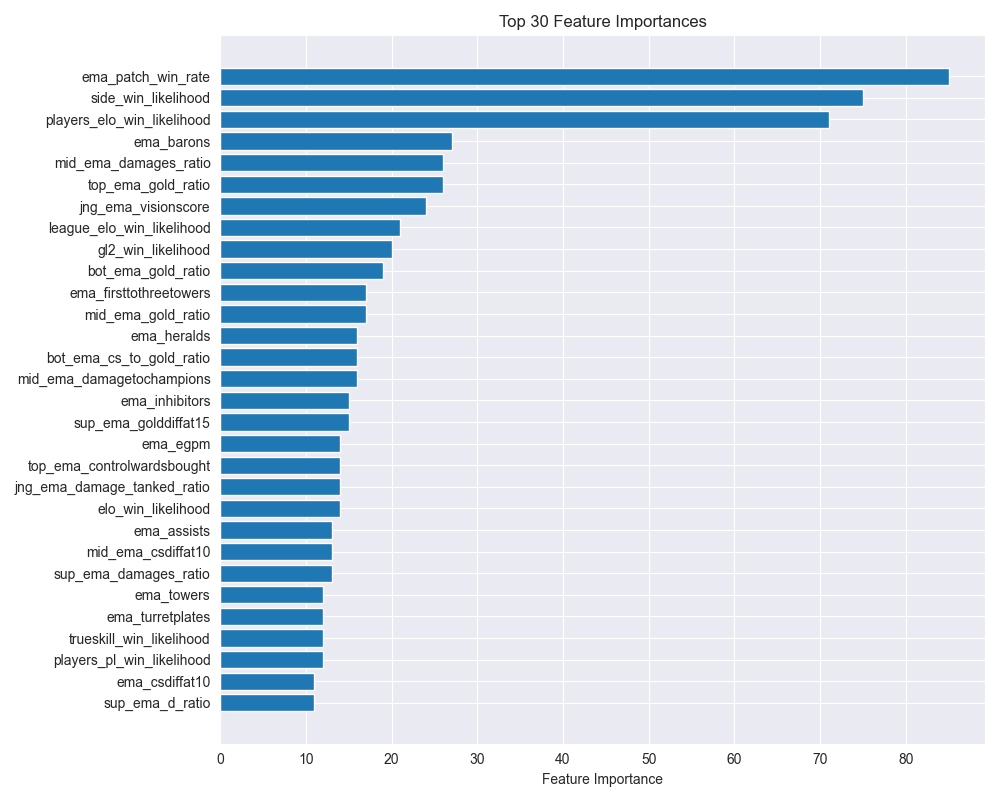
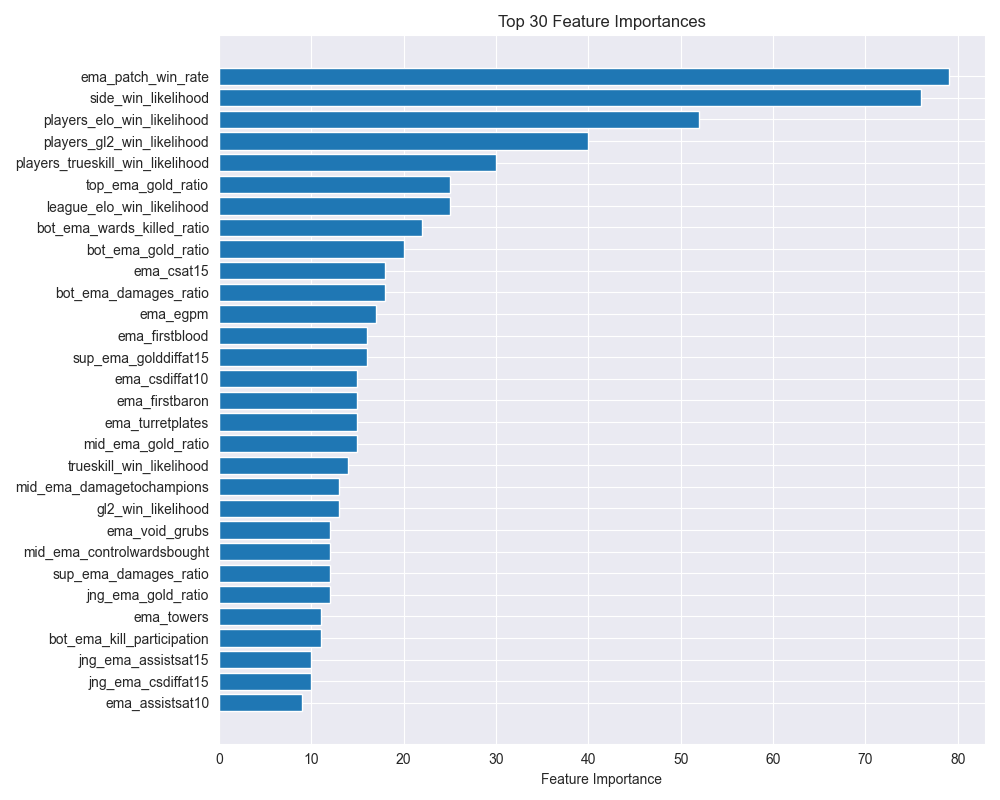
Fixed second model

diff --git a/src/prediction_models/lightgbm_model.py b/src/prediction_models/lightgbm_model.py
@@ -16,7 +16,7 @@ from sklearn.metrics import log_loss, mean_absolute_error
 
 from prediction_models.gbdt_model import GradientBoostingModel
 from utils.logger import logger, models_logger
-from utils.paths import OUTCOME_PREDICTION_BEST_HYPERPARAMETERS
+from utils.paths import GAMELENGTH_PREDICTION_BEST_HYPERPARAMETERS, OUTCOME_PREDICTION_BEST_HYPERPARAMETERS
 from utils.utils import load_model
 
 # Constants
@@ -28,15 +28,13 @@ TEST_SIZE = 0.2
 class LightGBMModel(GradientBoostingModel):
     """A class to train and evaluate a LightGBM model."""
 
-    problem_type: str
-
     def train_model(self, target_col: str) -> Tuple[lgb.LGBMModel, pd.DataFrame, pd.Series, pd.Series, pd.Series]:
         """Train the LightGBM model using the training data."""
         X, y, categorical_cols = self._prepare_features_and_target(target_col)
         X_train, X_val, X_test, y_train, y_val, y_test, eval_gameids, eval_sides = self._split_data(X, y)
         X_train, X_val, X_test = self._preprocess_features(X_train, X_val, X_test)
         X_train, X_val, X_test = self._select_and_store_features(X_train, X_val, X_test, y_val, categorical_cols)
-        best_params = self._get_best_hyperparameters(X_train, y_train, X_val, y_val)
+        best_params = self._get_best_hyperparameters(X_train, y_train, X_val, y_val, target_col)
         model = self._fit_model(X_train, y_train, X_val, y_val, best_params)
         return model, X_test, y_test, eval_gameids, eval_sides
 
@@ -102,11 +100,15 @@ class LightGBMModel(GradientBoostingModel):
         return X_train, X_val, X_test
 
     def _get_best_hyperparameters(
-        self, X_train: pd.DataFrame, y_train: pd.Series, X_val: pd.DataFrame, y_val: pd.Series
+        self, X_train: pd.DataFrame, y_train: pd.Series, X_val: pd.DataFrame, y_val: pd.Series, target_col: str
     ) -> dict:
         """Retrieve the best hyperparameters for the LightGBM model."""
-        if OUTCOME_PREDICTION_BEST_HYPERPARAMETERS.exists():
-            best_params = load_model(OUTCOME_PREDICTION_BEST_HYPERPARAMETERS)
+        best_hyperparams_map = {
+            "result": OUTCOME_PREDICTION_BEST_HYPERPARAMETERS,
+            "gamelength": GAMELENGTH_PREDICTION_BEST_HYPERPARAMETERS,
+        }
+        if best_hyperparams_map[target_col].exists():
+            best_params = load_model(best_hyperparams_map[target_col])
             logger.info(f"Found best hyperparameters: {best_params}\n")
             models_logger.info(f"Found best hyperparameters: {best_params}")
         else:

diff --git a/src/models_training.py b/src/models_training.py
@@ -31,6 +31,7 @@ def initialize_and_train_model(
     """
     Initialize and train the LightGBM model.
     """
+    print(f"Initializing {problem_type} model...")
     model = LightGBMModel(model_name, training_team_data, training_player_data, problem_type)
 
     logger.info(f"Initialized {model_name} model. Starting training process...\n")
@@ -57,19 +58,19 @@ def main():
         models_logger.info("Starting the training process...\n")
         training_team_data, training_player_data = load_training_data(TRAINING_TEAM_DATA, TRAINING_PLAYER_DATA, logger)
 
-        # Initialize and train the outcome prediction model
-        outcome_prediction_model = initialize_and_train_model(
-            OUTCOME_MODEL_NAME, training_team_data, training_player_data, "result", "classification"
-        )
-        model_path = MODELS_DIR / f"{OUTCOME_MODEL_NAME}.{MODEL_FILE_EXTENSION}"
-        store_model(model_path, outcome_prediction_model, OUTCOME_MODEL_NAME, logger, models_logger)
-
-        # # Initialize and train the gamelength prediction model
-        # gamelength_prediction_model = initialize_and_train_model(
-        #     GAMELENGTH_MODEL_NAME, training_team_data, training_player_data, "gamelength", "regression"
+        # # Initialize and train the outcome prediction model
+        # outcome_prediction_model = initialize_and_train_model(
+        #     OUTCOME_MODEL_NAME, training_team_data.copy(), training_player_data.copy(), "result", "classification"
         # )
-        # model_path = MODELS_DIR / f"{GAMELENGTH_MODEL_NAME}.{MODEL_FILE_EXTENSION}"
-        # store_model(model_path, gamelength_prediction_model, GAMELENGTH_MODEL_NAME, logger, models_logger)
+        # model_path = MODELS_DIR / f"{OUTCOME_MODEL_NAME}.{MODEL_FILE_EXTENSION}"
+        # store_model(model_path, outcome_prediction_model, OUTCOME_MODEL_NAME, logger, models_logger)
+
+        # Initialize and train the gamelength prediction model
+        gamelength_prediction_model = initialize_and_train_model(
+            GAMELENGTH_MODEL_NAME, training_team_data.copy(), training_player_data.copy(), "gamelength", "regression"
+        )
+        model_path = MODELS_DIR / f"{GAMELENGTH_MODEL_NAME}.{MODEL_FILE_EXTENSION}"
+        store_model(model_path, gamelength_prediction_model, GAMELENGTH_MODEL_NAME, logger, models_logger)
 
         logger.info("Training process completed successfully.\n")
         models_logger.info("Training process completed successfully.\n\n\n")

diff --git a/src/prediction_models/gbdt_model.py b/src/prediction_models/gbdt_model.py
@@ -42,9 +42,10 @@ class GradientBoostingModel(ABC):
     model_name: str = field(default="")
     team_data: pd.DataFrame = field(default_factory=pd.DataFrame)
     player_data: pd.DataFrame = field(default_factory=pd.DataFrame)
-    training_data: pd.DataFrame = field(default_factory=pd.DataFrame)
+    problem_type: str = field(default_factory=str)
     trials: int = field(default=DEFAULT_TRIALS)
     directory: Path = field(default=FIGURES_DIR)
+    training_data: pd.DataFrame = field(init=False)
 
     def preprocess_data(self, target_col) -> pd.DataFrame:
         """Preprocess the data by pivoting player data and merging datasets."""
@@ -226,8 +227,8 @@ class GradientBoostingModel(ABC):
 
         df_dropped = df.drop(columns=to_drop)
 
-        logger.info(f"Dropped columns due to high correlation: {list(to_drop)}")
-        models_logger.info(f"Dropped columns due to high correlation: {list(to_drop)}")
+        logger.info(f"Dropped columns due to high correlation: {list(to_drop)}\n")
+        models_logger.info(f"Dropped columns due to high correlation: {list(to_drop)}\n")
 
         return df_dropped
 
@@ -290,6 +291,7 @@ class GradientBoostingModel(ABC):
         except Exception as e:
             logger.error(f"Failed to store prediction insights: {e}")
 
+    # TODO: fix this for regression models
     def validate_model(
         self, model, X_test: pd.DataFrame, y_test: pd.Series, eval_gameids: pd.Series, eval_sides: pd.Series
     ) -> None:

diff --git a/utils/paths.py b/utils/paths.py
@@ -76,6 +76,10 @@ OUTCOME_PREDICTION_MODEL_PATH = MODELS_DIR / "OutcomePrediction.pkl"
 OUTCOME_PREDICTION_CATEGORICAL_FEATURES = MODELS_DIR / "OutcomePrediction_categorical_features.pkl"
 OUTCOME_PREDICTION_FINAL_FEATURES = MODELS_DIR / "OutcomePrediction_final_features.pkl"
 OUTCOME_PREDICTION_BEST_HYPERPARAMETERS = MODELS_DIR / "OutcomePrediction_best_hyperparameters.pkl"
+GAMELENGTH_PREDICTION_MODEL_PATH = MODELS_DIR / "GamelengthPrediction.pkl"
+GAMELENGTH_PREDICTION_CATEGORICAL_FEATURES = MODELS_DIR / "GamelengthPrediction_categorical_features.pkl"
+GAMELENGTH_PREDICTION_FINAL_FEATURES = MODELS_DIR / "GamelengthPrediction_final_features.pkl"
+GAMELENGTH_PREDICTION_BEST_HYPERPARAMETERS = MODELS_DIR / "GamelengthPrediction_best_hyperparameters.pkl"
 
 # Reports storage
 LOGS_DIR = REPORTS_DIR / "logs"
